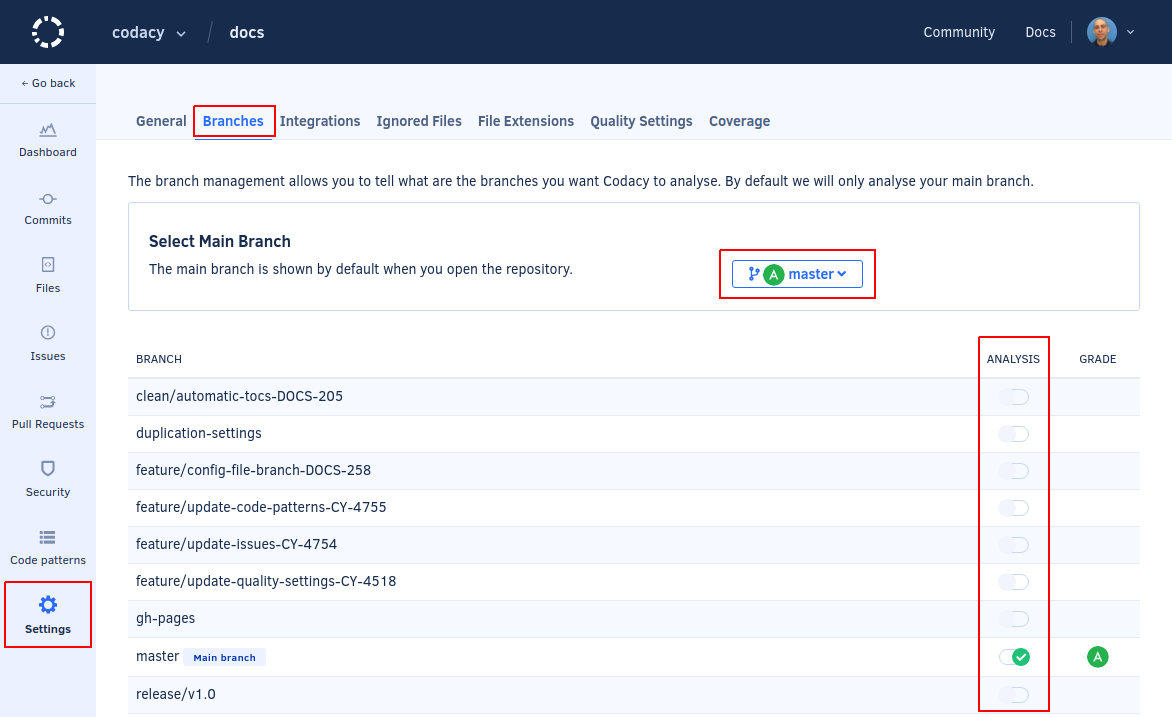
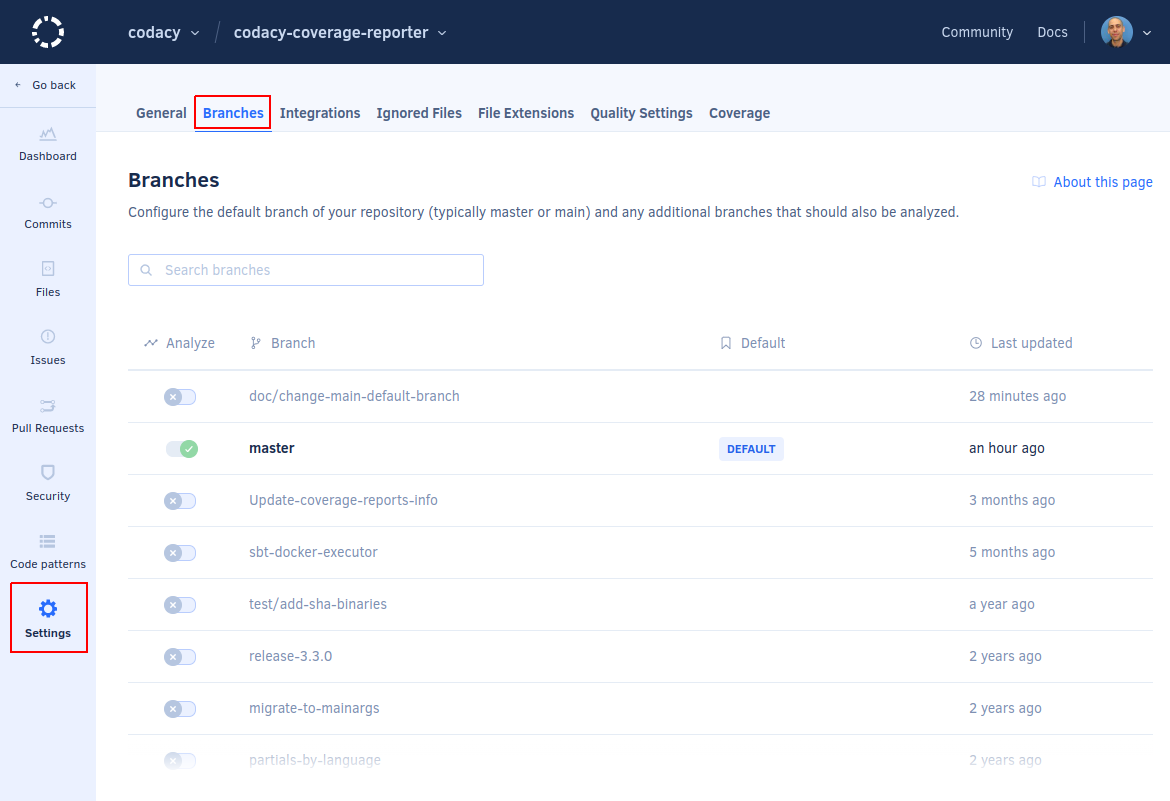
feat: Update Managing branches page CY-6043 (#1483)
* feat: Remove branches page from list of places that display the grade

* wip: Add placeholder screenshot

* feat: Update Managing branches page with updates from the migration

* feat: Add recommendation for configuring the default branch

Includes the changes originally from
https://github.com/codacy/docs/pull/1397

* wip: Add callouts to placeholder screenshot

* clean: Rewrite page as ordered instructions

* clean: Rewrite note on setting the default branch

* feat: Recover original page content for Self-hosted

* feat: Mention "Auto-enable new branches" feature for Self-hosted CY-6595

* Revert "feat: Mention "Auto-enable new branches" feature for Self-hosted CY-6595"

This reverts commit 607249535b8491afec5a036d20044d799987b02d.

* feat: Update screenshot

* clean: Apply feedback from peer review session

diff --git a/docs/repositories-configure/managing-branches.md b/docs/repositories-configure/managing-branches.md
@@ -1,17 +1,38 @@
 # Managing branches
 
+{% if not extra.self_hosted %}
+Codacy automatically analyzes the default branch of your repository (typically `master` or `main` as configured on your Git provider), and also supports analyzing multiple branches.
+
+To change the default branch of your repository or enable analysis on other branches:
+
+1.  Open your repository **Settings**, tab **Branches**.
+
+    ![Managing branches](images/managing-branches.png)
+
+1.  To enable analysis for a new branch, toggle the corresponding switch in the column **Analyze**.
+
+    Enabling a new branch triggers an initial analysis of that branch and the analysis results and information for that branch will become available after the analysis is complete.
+
+1.  To change the default branch on Codacy, click the corresponding **Make default** link that appears when you hover the column **Default**.
+
+    Codacy displays information for the default branch on dashboards and the repositories list by default, and we recommend that you set the default branch on Codacy to match the default branch of your Git repository.
+
+    !!! note
+        You can only set as default branch an already enabled branch.
+{% else %}
 Codacy automatically triggers analysis on the main branch of your repository (typically `master` or `main` as configured on your Git provider), and also supports analyzing multiple branches.
 
 To change the main branch of your repository or enable analysis on other branches, open your repository **Settings**, tab **Branches**. Enabling a new branch triggers an initial analysis of that branch and the analysis results and information for that branch will become available after the analysis is complete.
 
 This page also displays the [code quality grade](../faq/code-analysis/which-metrics-does-codacy-calculate.md) for each enabled branch.
 
-![Managing branches](images/managing-branches.png)
+![Managing branches](images/managing-branches-sh.png)
 
 !!! note
     **If you're using Codacy Self-hosted** you can also configure Codacy to automatically enable all new branches that are pushed to the repository.
 
     ![Auto-enable new branches](images/managing-branches-auto-enable.png)
+{% endif %}
 
 Codacy manages pull request branches and inactive branches as follows:
 

diff --git a/docs/faq/code-analysis/which-metrics-does-codacy-calculate.md b/docs/faq/code-analysis/which-metrics-does-codacy-calculate.md
@@ -39,7 +39,7 @@ Codacy displays grades on the following places:
 |Place|Metric|
 |-----|------|
 |[Files page](../../repositories/files.md)|Grade for each file in your repository|
-|[Repository Dashboard](../../repositories/repository-dashboard.md)<br/>[Branches page](../../repositories-configure/managing-branches.md)<br/>[Codacy badge](../../getting-started/adding-a-codacy-badge.md)|Grade of each analyzed branch in your repository|
+|[Repository Dashboard](../../repositories/repository-dashboard.md)<br/>[Codacy badge](../../getting-started/adding-a-codacy-badge.md)|Grade of each analyzed branch in your repository|
 |[Email notifications](../../account/emails.md#managing-your-email-notifications)|Grade of your repository|
 |[Organization Overview](../../organizations/organization-overview.md)|Average grade of the repositories in your organization and grade of each repository|
 |[Repositories list](../../organizations/managing-repositories.md)|Grade of each repository in your organization|
